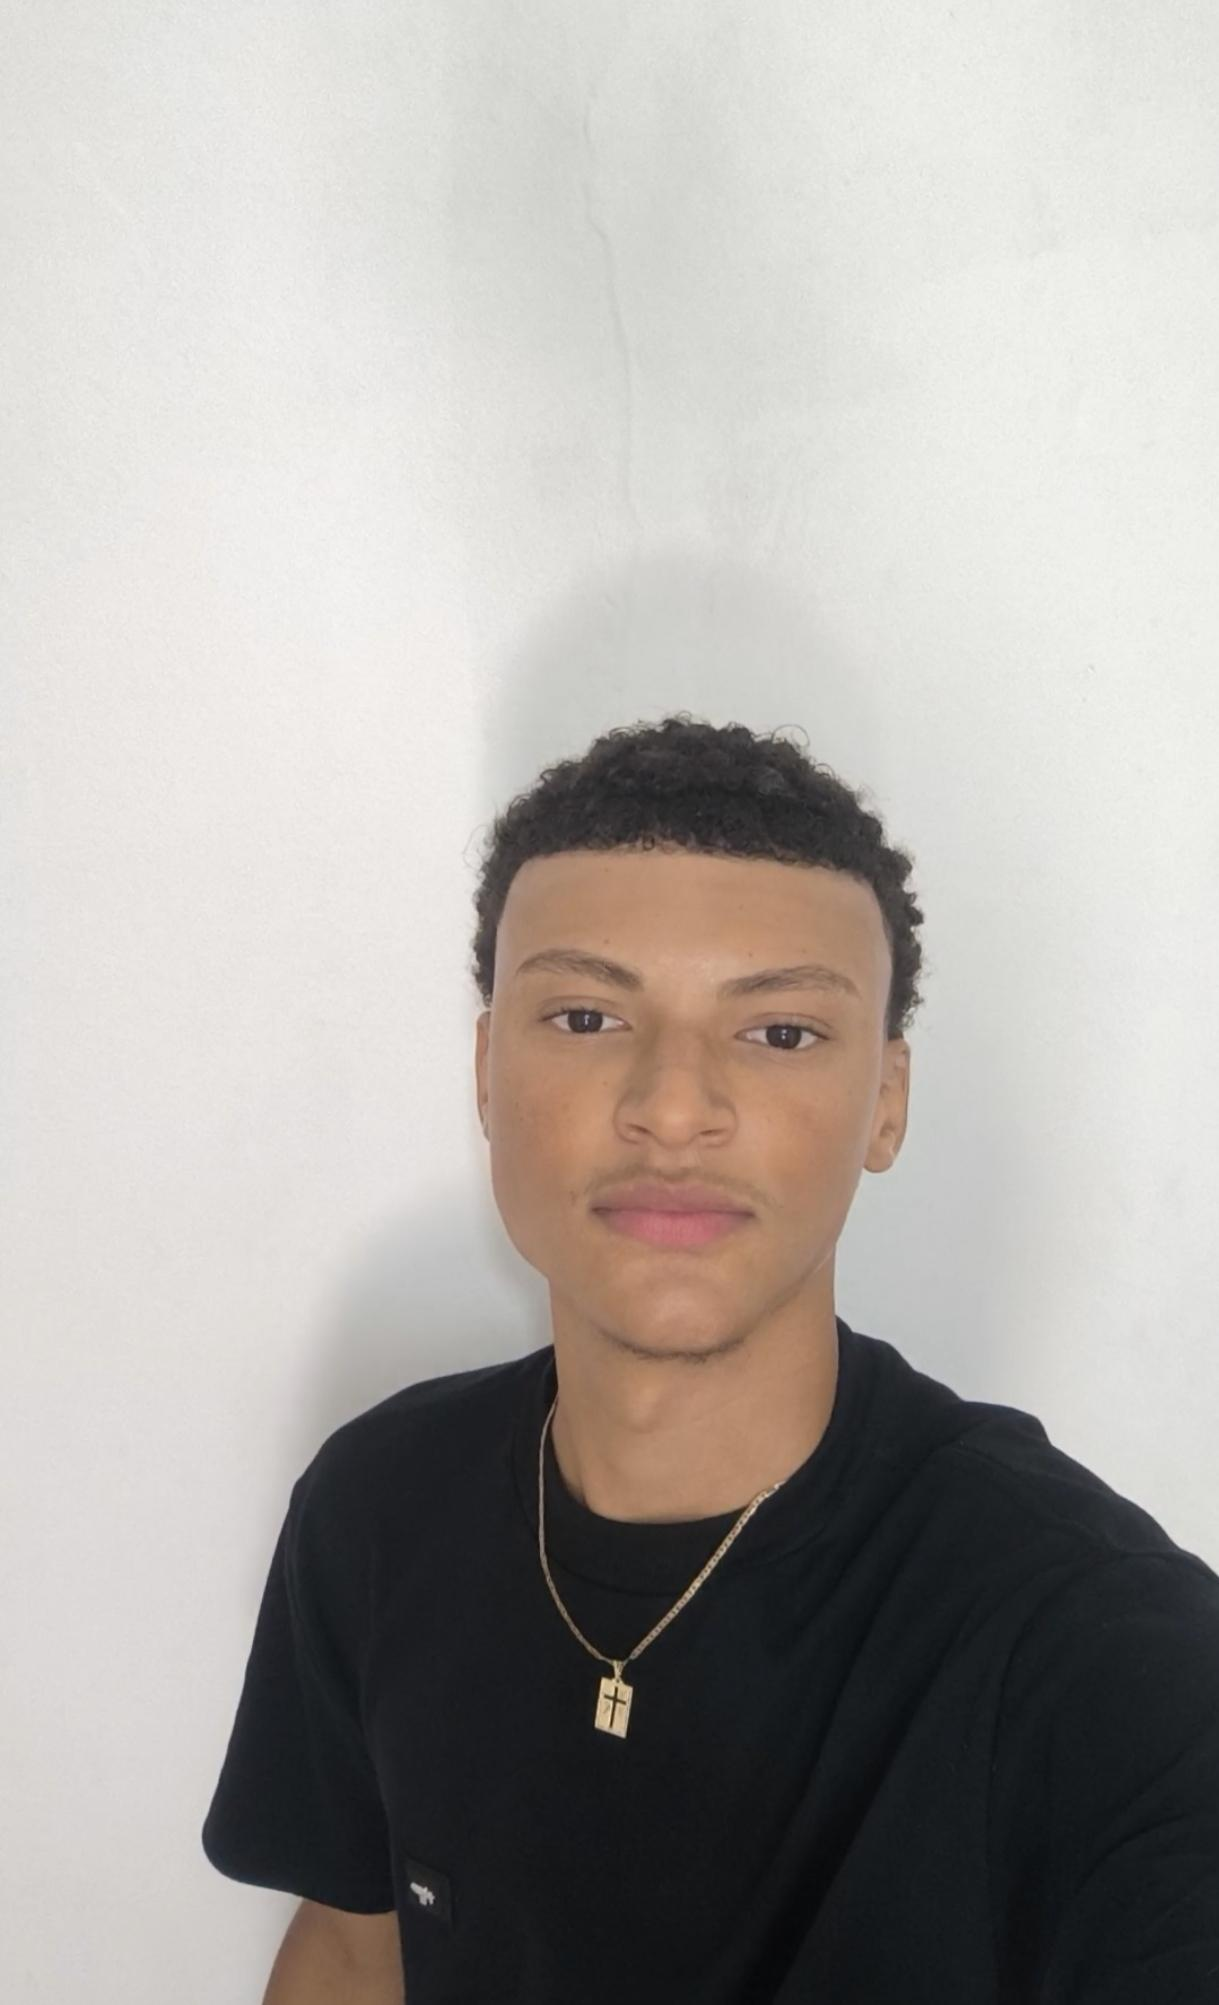
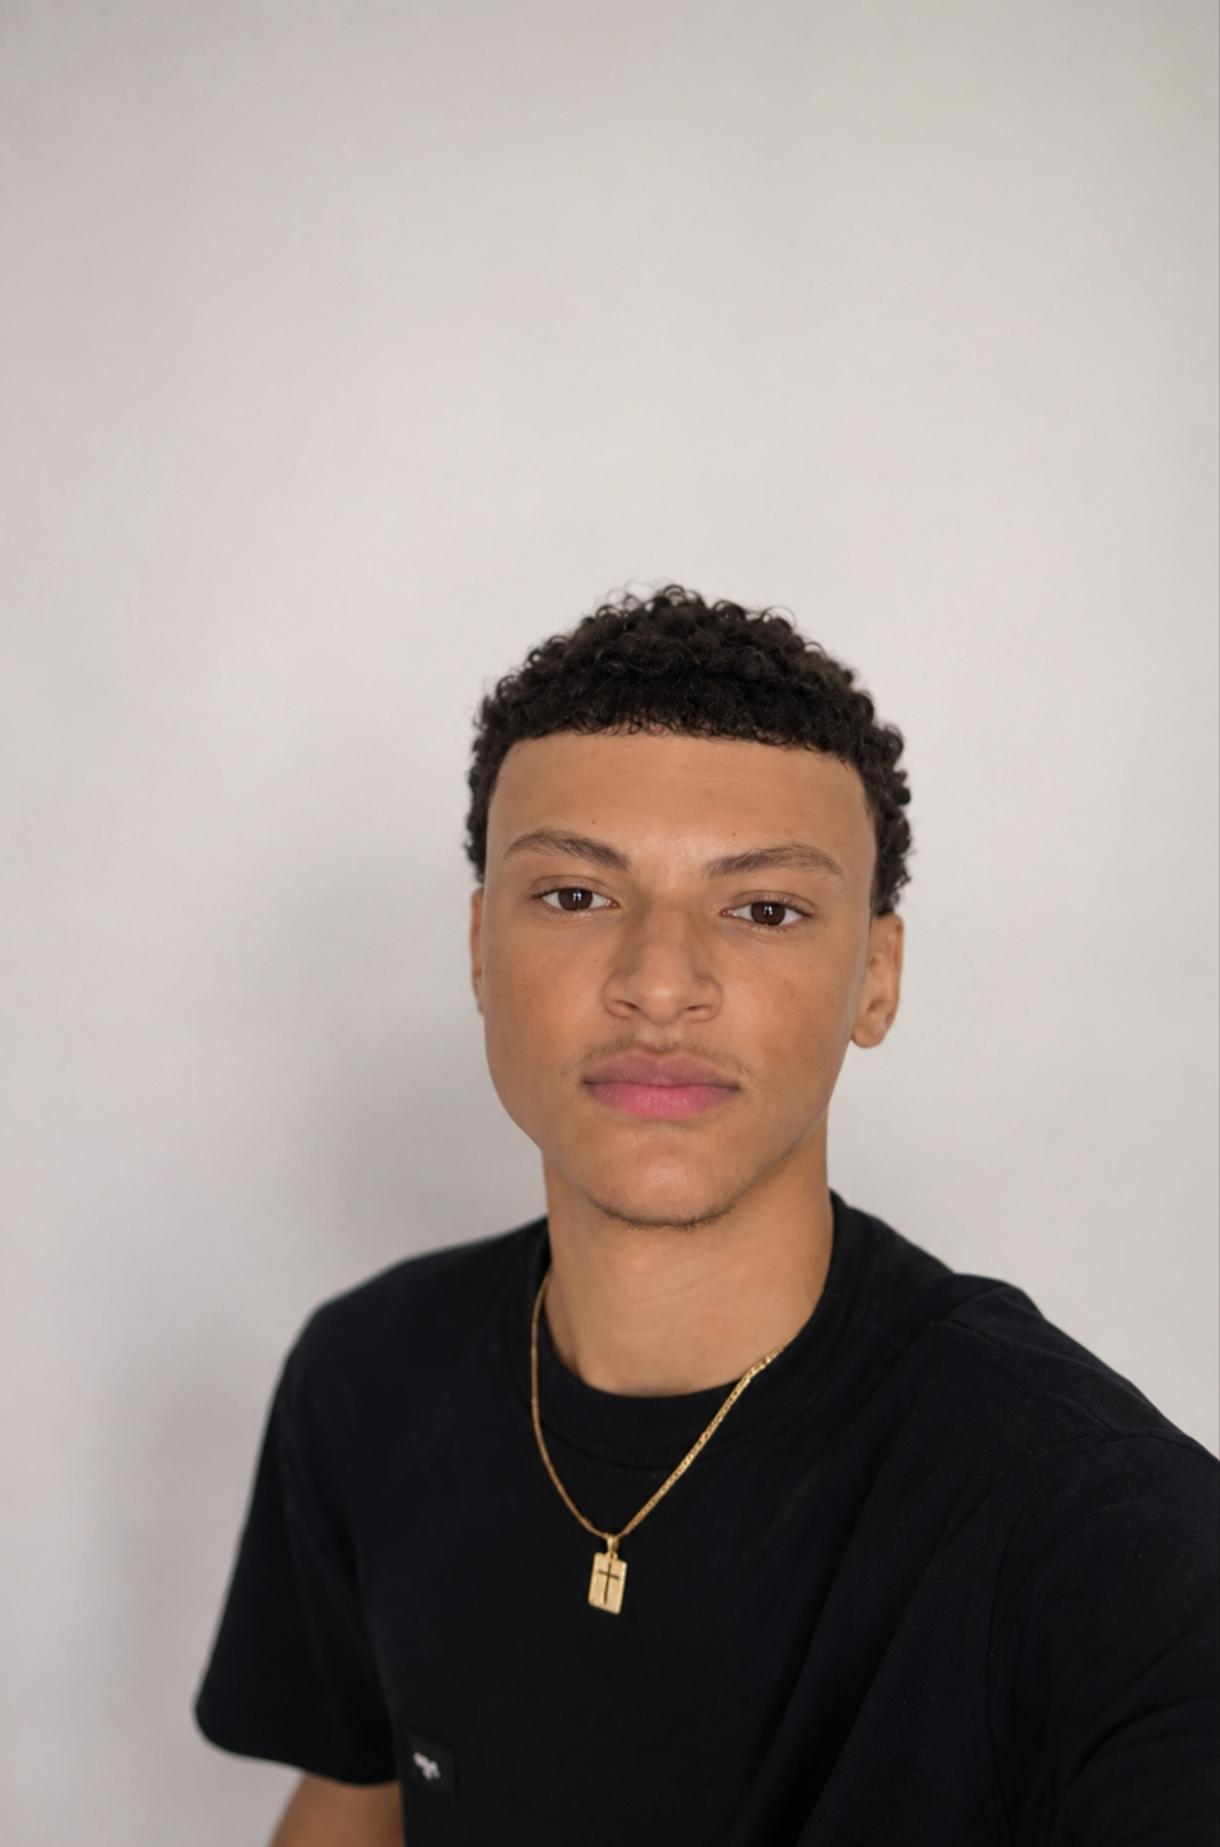
feat: atualiza portfolio e adiciona hobbies

diff --git a/index.html b/index.html
@@ -146,7 +146,7 @@
                 </span>
 
                 <h2 class="text-3xl sm:text-4xl md:text-5xl font-bold mb-6 leading-tight">
-                    Do interior para o mundo da tecnologia 🚀
+                    Do agro para a tecnologia!
                 </h2>
 
                 <p class="text-zinc-300 max-w-3xl mx-auto text-base sm:text-lg leading-relaxed">
@@ -233,6 +233,86 @@
             </div>
 
 
+            <!-- ALÉM DA TECNOLOGIA -->
+            <div class="mt-24">
+
+                <div class="text-center mb-16">
+                    <h2 class="text-3xl sm:text-4xl md:text-5xl font-bold mb-6 leading-tight">
+                        Além da tecnologia 🌿
+                    </h2>
+
+                    <p class="text-zinc-300 max-w-3xl mx-auto text-base sm:text-lg leading-relaxed">
+                        Um pouco do que gosto de fazer quando estou longe do computador.
+                    </p>
+                </div>
+
+                <div class="grid grid-cols-1 sm:grid-cols-2 lg:grid-cols-3 gap-6">
+
+                    <!-- HOBBY 1 - TRILHAS DE MOTO -->
+                    <div class="group relative overflow-hidden rounded-3xl border border-white/10 bg-white/5 backdrop-blur-xl hover:-translate-y-2 transition duration-500 shadow-2xl">
+                        <img
+                            src="EuTrilha.png"
+                            alt="Motociclista percorrendo uma trilha de terra"
+                            class="w-full h-[400px] object-cover object-[center_35%] group-hover:scale-110 transition duration-700"
+                        />
+
+                        <div class="absolute inset-0 bg-gradient-to-t from-black/80 via-black/20 to-transparent"></div>
+
+                        <div class="absolute bottom-0 p-6">
+                            <h3 class="text-2xl font-bold mb-2 text-orange-300">
+                                Trilhas de moto 🏍
+                            </h3>
+
+                            <p class="text-zinc-200 text-sm leading-relaxed">
+                                Aventura, adrenalina e novos caminhos. Gosto de explorar trilhas e aproveitar o contato com a natureza.
+                            </p>
+                        </div>
+                    </div>
+
+                    <!-- HOBBY 2 - PESCA -->
+                    <div class="group relative overflow-hidden rounded-3xl border border-white/10 bg-white/5 backdrop-blur-xl hover:-translate-y-2 transition duration-500 shadow-2xl">
+                        <img
+                            src="Pesca.png"
+                            alt="Varas de pesca à beira de um rio"
+                            class="w-full h-[400px] object-cover object-center group-hover:scale-110 transition duration-700"
+                        />
+
+                        <div class="absolute inset-0 bg-gradient-to-t from-black/80 via-black/20 to-transparent"></div>
+
+                        <div class="absolute bottom-0 p-6">
+                            <h3 class="text-2xl font-bold mb-2 text-sky-300">
+                                Pesca 🎣
+                            </h3>
+
+                            <p class="text-zinc-200 text-sm leading-relaxed">
+                                Momentos de tranquilidade, paciência e conexão com a natureza.
+                            </p>
+                        </div>
+                    </div>
+
+                    <!-- HOBBY 3 - CAVALGAR -->
+                    <div class="group relative overflow-hidden rounded-3xl border border-white/10 bg-white/5 backdrop-blur-xl hover:-translate-y-2 transition duration-500 shadow-2xl">
+                        <img
+                            src="Cavalos.png"
+                            alt="Cavalos reunidos em um espaço rural"
+                            class="w-full h-[400px] object-cover object-[center_72%] group-hover:scale-110 transition duration-700"
+                        />
+
+                        <div class="absolute inset-0 bg-gradient-to-t from-black/80 via-black/20 to-transparent"></div>
+
+                        <div class="absolute bottom-0 p-6">
+                            <h3 class="text-2xl font-bold mb-2 text-amber-300">
+                                Cavalgar 🐎
+                            </h3>
+
+                            <p class="text-zinc-200 text-sm leading-relaxed">
+                                Uma paixão que mantém minhas raízes e minha conexão com o interior sempre presentes.
+                            </p>
+                        </div>
+                    </div>
+                </div>
+            </div>
+
             <!-- BLOCO EXTRA -->
             <div class="mt-20 grid md:grid-cols-2 gap-8 items-center">
 
@@ -290,86 +370,108 @@
             <!-- GRID -->
             <div class="grid grid-cols-1 sm:grid-cols-2 lg:grid-cols-3 gap-6 lg:gap-8">
 
-                <!-- CARD 1 -->
+                <!-- CARD 1 - GARFO & GO -->
                 <div class="group bg-white/5 backdrop-blur-xl border border-white/10 rounded-3xl overflow-hidden hover:-translate-y-2 hover:border-cyan-400/40 transition duration-500 shadow-lg">
-
-                    <!-- COLOQUE A IMAGEM DO PROJETO AQUI -->
-                    <img
-                        src="GarfO&Go.png"
-                        alt="Projeto 1"
-                        class="w-full h-52 object-cover"
-                    />
+                    <img src="GarfO&amp;Go.png" alt="Interface do projeto Garfo &amp; Go" class="w-full h-52 object-cover" />
 
                     <div class="p-6 space-y-4">
-                        <h3 class="text-2xl font-semibold">
-                            Sistema inteligente de Pedidos 
-                        </h3>
-
+                        <h3 class="text-2xl font-semibold">Sistema inteligente de pedidos</h3>
                         <p class="text-zinc-400 leading-relaxed">
-                           O Garfo & Go foi criado para facilitar os pedidos de comida, 
-                           permitindo que o cliente faça tudo pelo celular de forma rápida e prática.
+                            O Garfo &amp; Go foi criado para facilitar os pedidos de comida,
+                            permitindo que o cliente faça tudo pelo celular de forma rápida e prática.
                         </p>
-
-                        <button class="px-5 py-3 rounded-xl bg-cyan-500/10 border border-cyan-500/20 hover:bg-cyan-500 hover:text-black transition duration-300">
-                             <a href="SEU_LINK_GITHUB" target="_blank">
-                            Consulte no meu Git Hub</a>
-                        </button>
+                        <a href="https://github.com/Projetos-Grupo-01/GarfoeGo" target="_blank" rel="noopener noreferrer"
+                           class="inline-flex items-center gap-2 px-5 py-3 rounded-xl bg-cyan-500/10 border border-cyan-500/20 hover:bg-cyan-500 hover:text-black transition duration-300">
+                            <i class="fab fa-github" aria-hidden="true"></i> Consulte no meu GitHub
+                        </a>
                     </div>
                 </div>
 
-
-                <!-- CARD 2 -->
+                <!-- CARD 2 - GO LADY -->
                 <div class="group bg-white/5 backdrop-blur-xl border border-white/10 rounded-3xl overflow-hidden hover:-translate-y-2 hover:border-purple-400/40 transition duration-500 shadow-lg">
-
-                    <!-- COLOQUE A IMAGEM DO PROJETO AQUI -->
-                    <img
-                        src="Golady.png"
-                        alt="Projeto 2"
-                        class="w-full h-52 object-cover"
-                    />
+                    <img src="Golady.png" alt="Interface do projeto Go Lady" class="w-full h-52 object-cover" />
 
                     <div class="p-6 space-y-4">
-                        <h3 class="text-2xl font-semibold">
-                            Sistema de Carona Compartilhada
-                        </h3>
-
+                        <h3 class="text-2xl font-semibold">Sistema de carona compartilhada</h3>
                         <p class="text-zinc-400 leading-relaxed">
-                            O Go Lady é um sistema de caronas compartilhadas criado para conectar mulheres motoristas e passageiras,
-                            trazendo mais segurança e conforto durante as viagens.
+                            O Go Lady conecta mulheres motoristas e passageiras, trazendo mais segurança
+                            e conforto durante as viagens.
                         </p>
-
-                        <button class="px-5 py-3 rounded-xl bg-purple-500/10 border border-purple-500/20 hover:bg-purple-500 hover:text-white transition duration-300">
-                             <a href="SEU_LINK_GITHUB" target="_blank">
-                            Consulte no meu Git Hub</a>
-                        </button>
+                        <a href="https://github.com/Projetos-Grupo-01/go_lady" target="_blank" rel="noopener noreferrer"
+                           class="inline-flex items-center gap-2 px-5 py-3 rounded-xl bg-purple-500/10 border border-purple-500/20 hover:bg-purple-500 hover:text-white transition duration-300">
+                            <i class="fab fa-github" aria-hidden="true"></i> Consulte no meu GitHub
+                        </a>
                     </div>
                 </div>
 
-
-                <!-- CARD 3 -->
+                <!-- CARD 3 - FISIOCARE -->
                 <div class="group bg-white/5 backdrop-blur-xl border border-white/10 rounded-3xl overflow-hidden hover:-translate-y-2 hover:border-pink-400/40 transition duration-500 shadow-lg">
-
-                    <!-- COLOQUE A IMAGEM DO PROJETO AQUI -->
-                    <img
-                        src="FisioCare.png"
-                        alt="Projeto 3"
-                        class="w-full h-52 object-cover"
-                    />
+                    <img src="FisioCare.png" alt="Interface do projeto Fisio Care" class="w-full h-52 object-cover" />
 
                     <div class="p-6 space-y-4">
-                        <h3 class="text-2xl font-semibold">
-                            Sistema de Atendimento aos Idosos
-                        </h3>
-
+                        <h3 class="text-2xl font-semibold">Sistema de atendimento aos idosos</h3>
                         <p class="text-zinc-400 leading-relaxed">
-                           O Fisio Care facilita consultas, exercícios, lembretes de medicamentos e
-                           o contato com familiares ou profissionais da saúde, trazendo mais cuidado e qualidade de vida aos idosos
+                            O Fisio Care facilita consultas, exercícios, lembretes de medicamentos e o contato
+                            com familiares ou profissionais da saúde.
                         </p>
+                        <a href="https://github.com/Projetos-Grupo-01/fisiocare" target="_blank" rel="noopener noreferrer"
+                           class="inline-flex items-center gap-2 px-5 py-3 rounded-xl bg-pink-500/10 border border-pink-500/20 hover:bg-pink-500 hover:text-white transition duration-300">
+                            <i class="fab fa-github" aria-hidden="true"></i> Consulte no meu GitHub
+                        </a>
+                    </div>
+                </div>
 
-                        <button class="px-5 py-3 rounded-xl bg-pink-500/10 border border-pink-500/20 hover:bg-pink-500 hover:text-white transition duration-300">
-                            <a href="SEU_LINK_GITHUB" target="_blank">
-                            Consulte no meu Git Hub</a>
-                        </button>
+                <!-- CARD 4 - TI CORP -->
+                <div class="group flex flex-col bg-white/5 backdrop-blur-xl border border-white/10 rounded-3xl overflow-hidden hover:-translate-y-2 hover:border-blue-400/40 transition duration-500 shadow-lg">
+                    <img src="TICorp.png" alt="Portal de atendimento e automação de TI da TCorp" class="w-full h-52 object-cover object-center" />
+
+                    <div class="p-6 flex flex-1 flex-col gap-4">
+                        <h3 class="text-2xl font-semibold">TI Corp — Portal de Alteração de Senhas</h3>
+                        <p class="text-zinc-400 leading-relaxed flex-1">
+                            Permite que colaboradores, especialmente quem trabalha em home office, alterem senhas corporativas
+                            expiradas com segurança pelo celular ou computador, usando autenticação Microsoft e MFA. Isso reduz
+                            deslocamentos e demandas da equipe de TI, além de ampliar a autonomia dos usuários.
+                        </p>
+                        <a href="https://github.com/Samuel-ssf/projeto_TI_Corp" target="_blank" rel="noopener noreferrer"
+                           class="inline-flex self-start items-center gap-2 px-5 py-3 rounded-xl bg-blue-500/10 border border-blue-500/20 hover:bg-blue-500 hover:text-white transition duration-300">
+                            <i class="fab fa-github" aria-hidden="true"></i> Consultar no GitHub
+                        </a>
+                    </div>
+                </div>
+
+                <!-- CARD 5 - PEOPLE API -->
+                <div class="group flex flex-col bg-white/5 backdrop-blur-xl border border-white/10 rounded-3xl overflow-hidden hover:-translate-y-2 hover:border-lime-400/40 transition duration-500 shadow-lg">
+                    <img src="PeopleAPI.png" alt="Interface do projeto People API" class="w-full h-52 object-cover object-center" />
+
+                    <div class="p-6 flex flex-1 flex-col gap-4">
+                        <h3 class="text-2xl font-semibold">Gestão Inteligente de Pessoas</h3>
+                        <p class="text-zinc-400 leading-relaxed flex-1">
+                            Gerencia cadastros de pessoas, com recursos para registrar, consultar e organizar informações.
+                            A integração com a API Nationalize estima a nacionalidade provável a partir do primeiro nome,
+                            agregando uma análise aos cadastros.
+                        </p>
+                        <a href="https://github.com/Samuel-ssf/projeto_people_api" target="_blank" rel="noopener noreferrer"
+                           class="inline-flex self-start items-center gap-2 px-5 py-3 rounded-xl bg-lime-500/10 border border-lime-500/20 hover:bg-lime-500 hover:text-black transition duration-300">
+                            <i class="fab fa-github" aria-hidden="true"></i> Consultar no GitHub
+                        </a>
+                    </div>
+                </div>
+
+                <!-- CARD 6 - ORGANIZADOR DE FLUXOS -->
+                <div class="group flex flex-col bg-white/5 backdrop-blur-xl border border-white/10 rounded-3xl overflow-hidden hover:-translate-y-2 hover:border-orange-400/40 transition duration-500 shadow-lg">
+                    <img src="FluxoOrganization.png" alt="Interface do Organizador de Fluxos de URA" class="w-full h-52 object-cover object-center" />
+
+                    <div class="p-6 flex flex-1 flex-col gap-4">
+                        <h3 class="text-2xl font-semibold">Fluxo Organization</h3>
+                        <p class="text-zinc-400 leading-relaxed flex-1">
+                            Analisa fluxos de URA exportados da NICE, identificando Actions, conexões, condições e ramificações.
+                            Reorganiza estruturas complexas em diagramas visuais hierárquicos que facilitam a compreensão,
+                            a análise técnica e a manutenção dos fluxos.
+                        </p>
+                        <a href="https://github.com/Samuel-ssf/" target="_blank" rel="noopener noreferrer"
+                           class="inline-flex self-start items-center gap-2 px-5 py-3 rounded-xl bg-orange-500/10 border border-orange-500/20 hover:bg-orange-500 hover:text-white transition duration-300">
+                            <i class="fab fa-github" aria-hidden="true"></i> Consultar no GitHub
+                        </a>
                     </div>
                 </div>
             </div>
